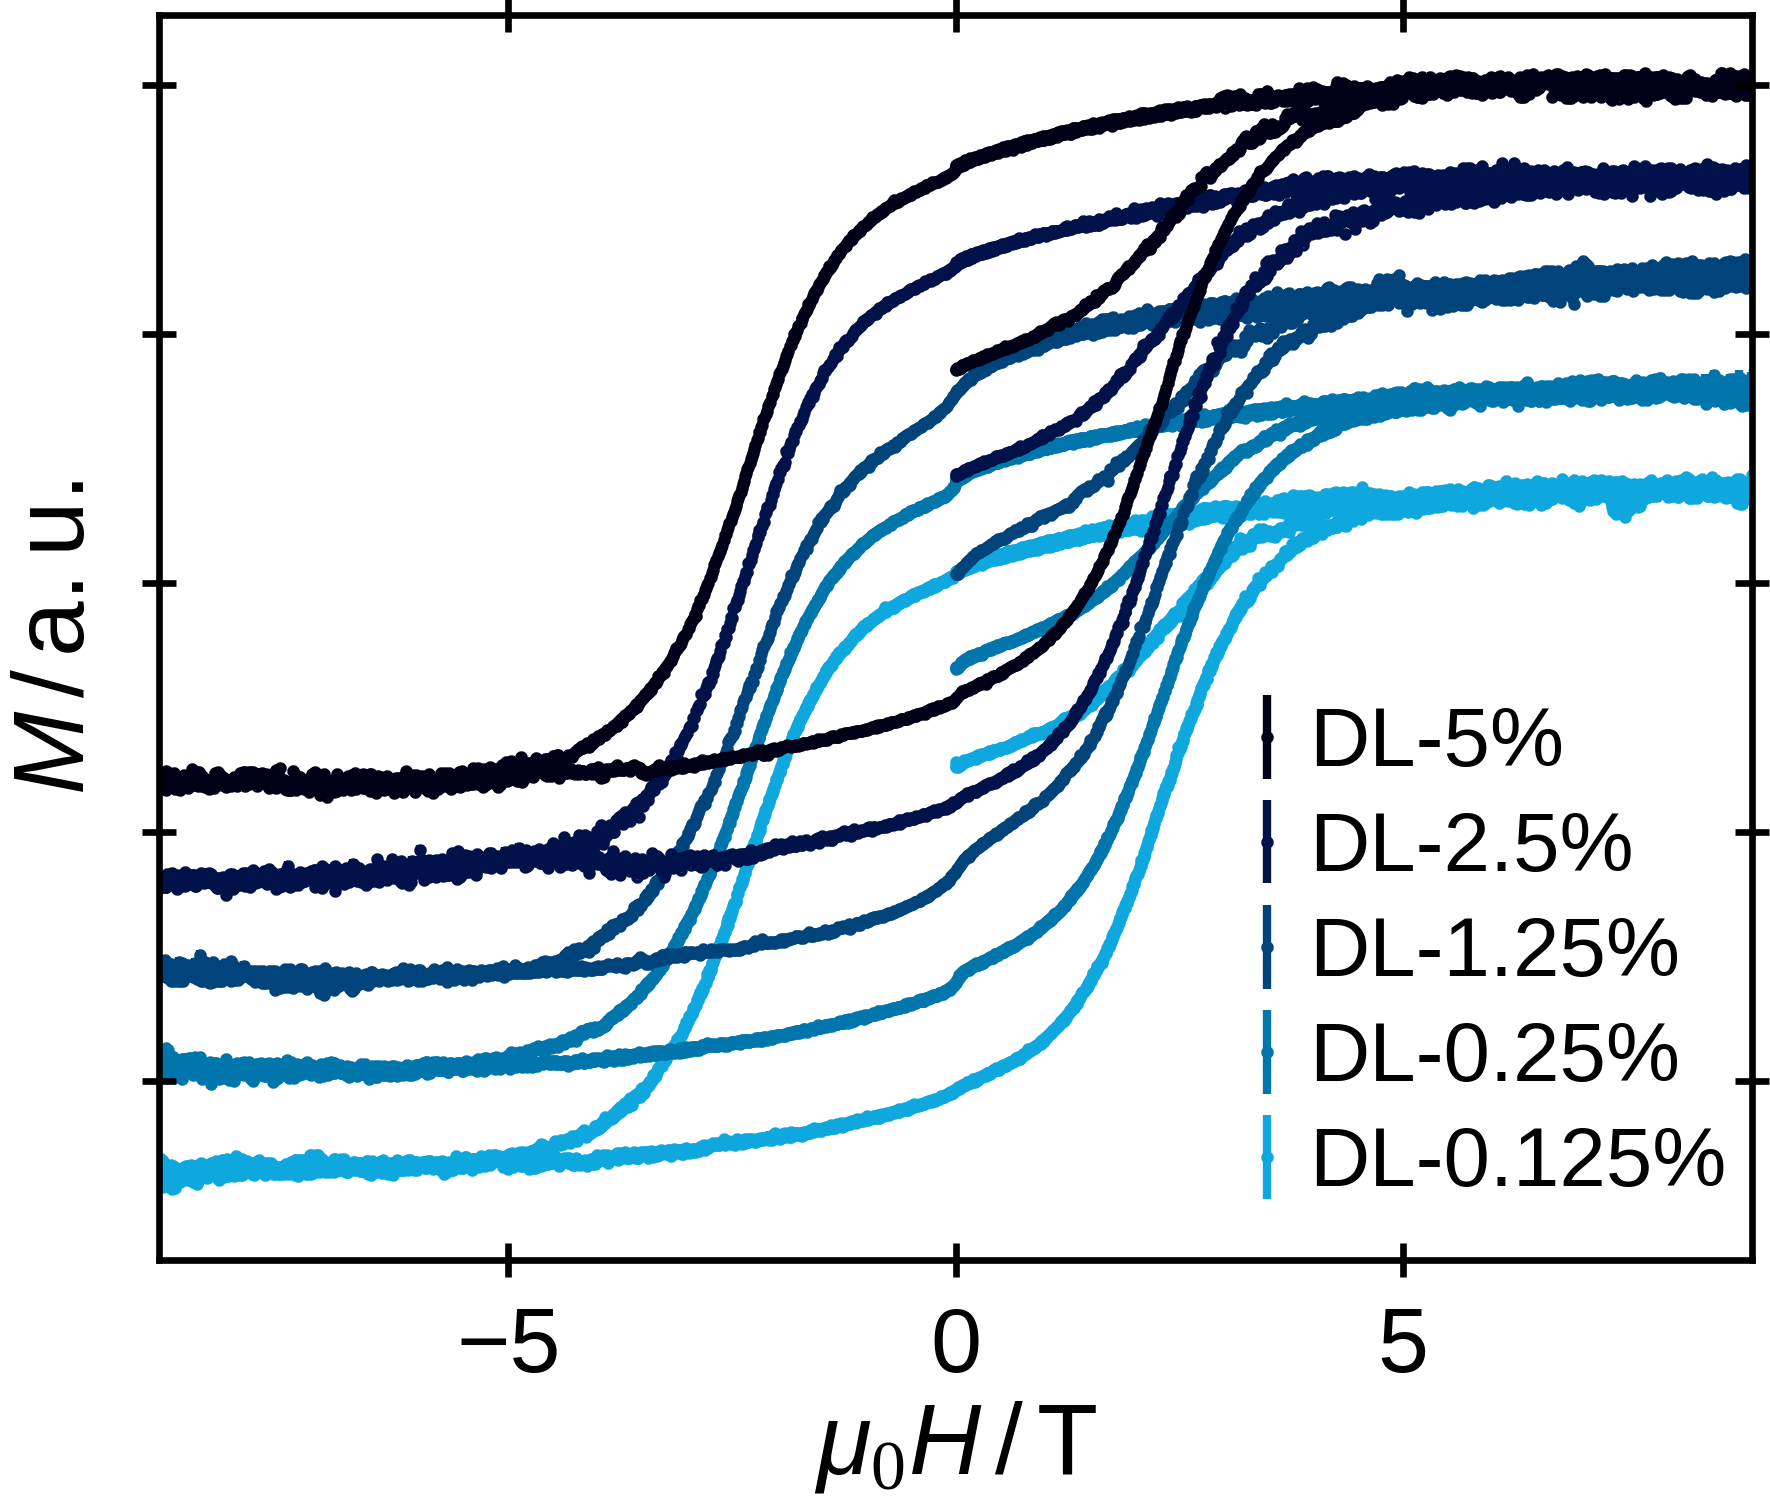
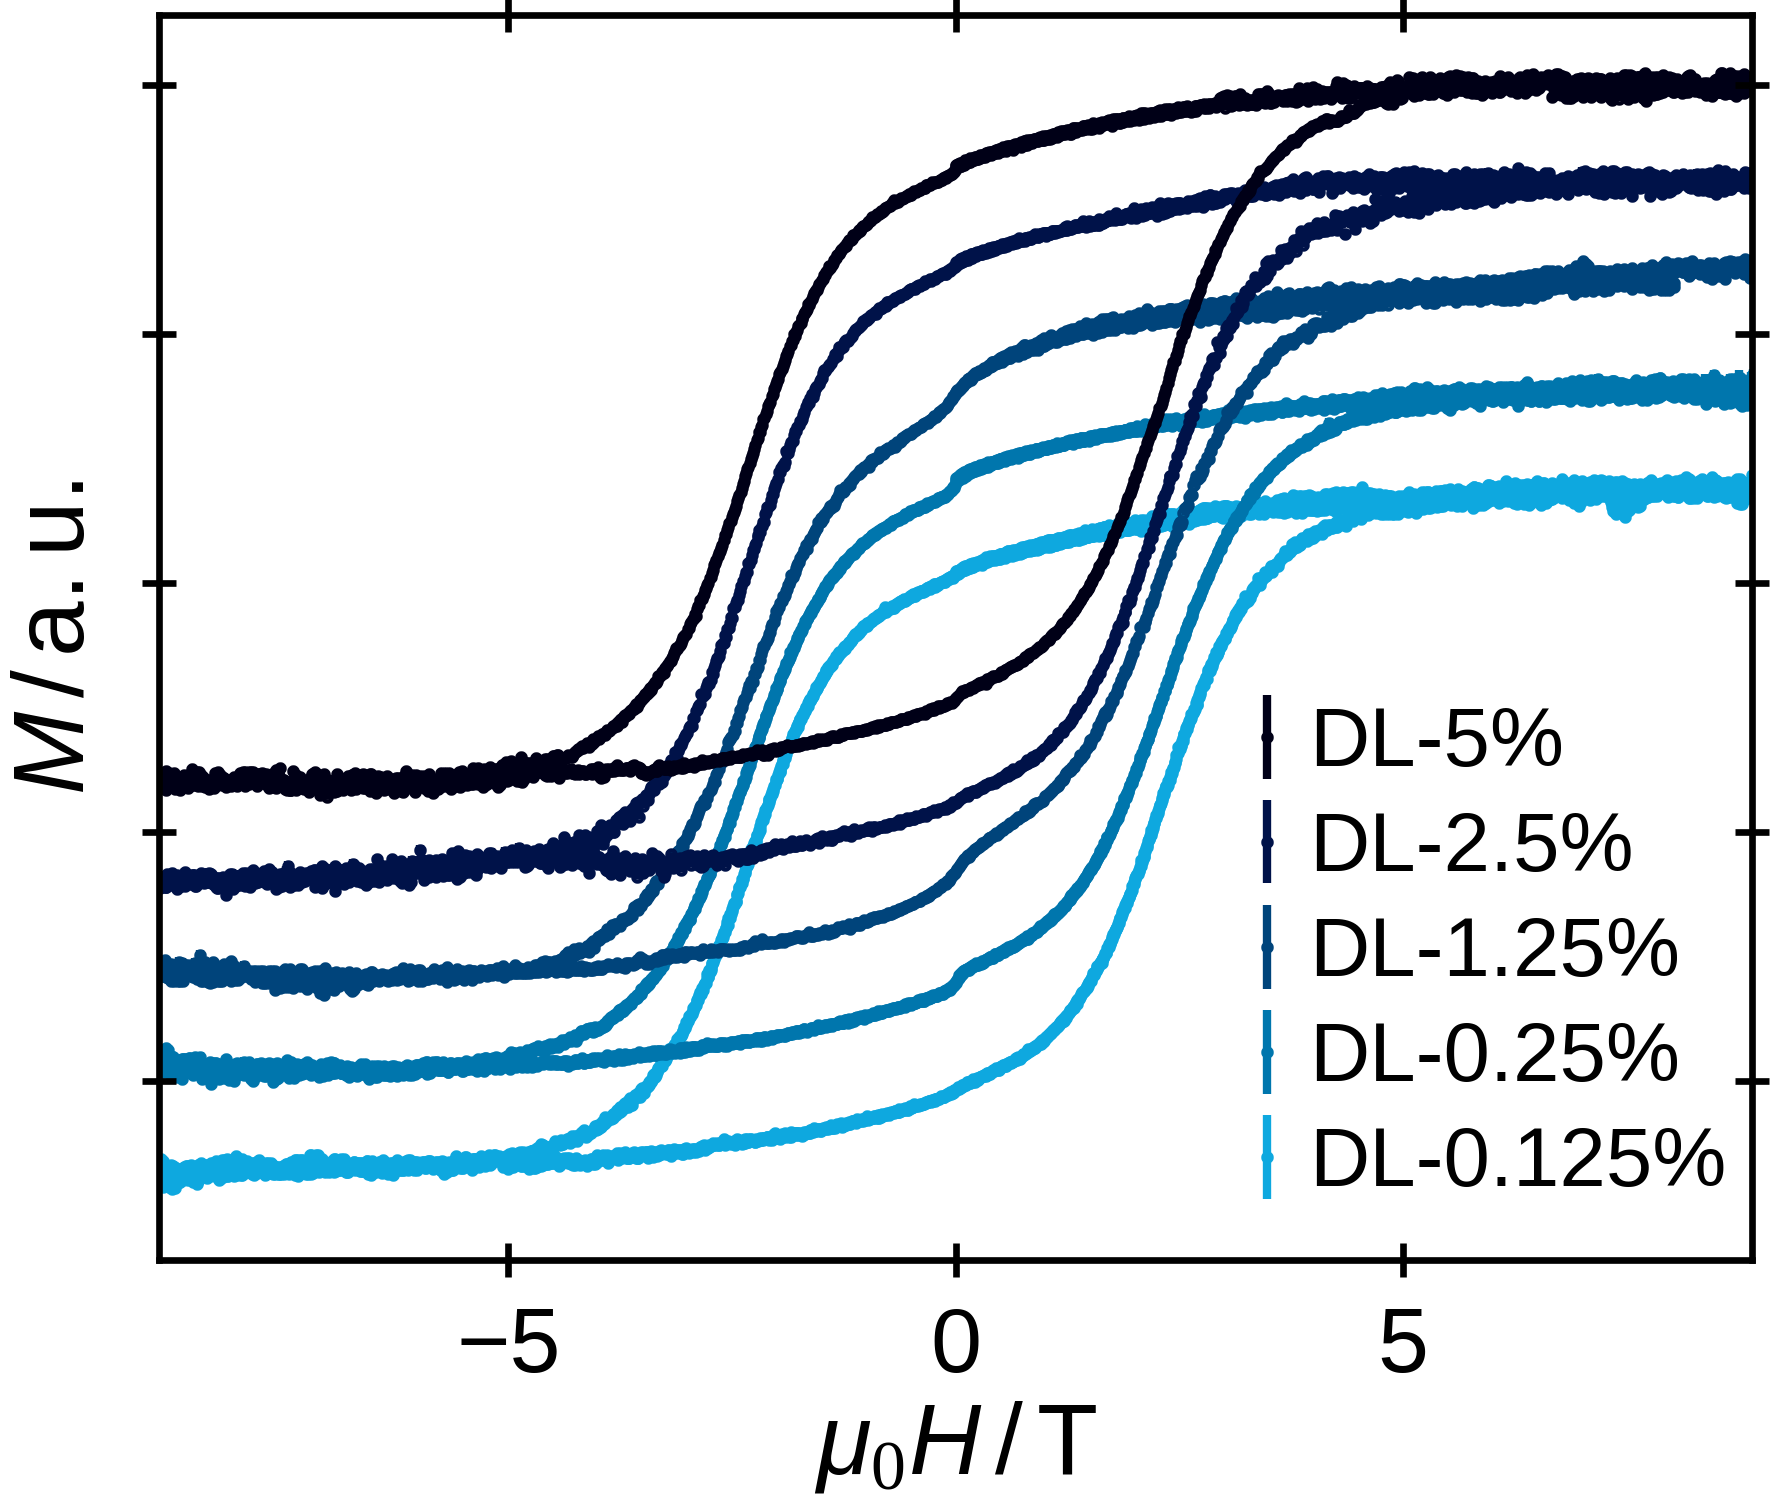
[Correction] Doublelayer VSM mask virgin curves in shifted plot

diff --git a/chapters/doublelayers/magnetism/vsm/vsm.tex b/chapters/doublelayers/magnetism/vsm/vsm.tex
@@ -68,7 +68,7 @@
       \centering
       \includegraphics{doublelayers_PPMS_10K_allSamples}
       \includegraphics{doublelayers_PPMS_10K_allSamplesShifted}
-      \caption{\label{fig:doubleLayers:10KVSM}Field-dependent magnetization of the double layers measured at $10 \unit{K}$ after cooling in a $10 \unit{mT}$ field (left). Similar to \reffig{fig:doubleLayers:RTVSM} the hysteresis curves are shifted by the same factor for differentiation (right).}
+      \caption{\label{fig:doubleLayers:10KVSM}Field-dependent magnetization of the double layers measured at $10 \unit{K}$ after cooling in a $10 \unit{mT}$ field (left). Similar to \reffig{fig:doubleLayers:RTVSM} the hysteresis curves are shifted by the same factor for differentiation (right). Additionally the virgin curves are masked for clarity.}
     \end{figure}
     Stronger variations can be seen in the hysteresis at $10 \unit{K}$.
     Similar to the monolayer sample in \refsec{sec:monolayers:magneticStructure:vsm}, a small jump in the magnetization is visible around $\pm 100 \unit{mT}$ in all samples.

diff --git a/data/doubleLayers/compareVSM10K/THESIS_VSM10KShifts.py b/data/doubleLayers/compareVSM10K/THESIS_VSM10KShifts.py
@@ -19,8 +19,11 @@ savefile = f'{chapter}_PPMS_10K_{sample_name}'
 
 def load_file(datafile, sf=1, chi=0):
   data = XyeData()
-  data.loadFromFile(datafile)
+  data.loadFromFile(datafile, sort=False)
   B1, M1, sM1 = data.getData()
+  B1 = B1[800:]
+  M1 = M1[800:]
+  sM1 = sM1[800:]
   return B1, (M1-chi*B1)*sf, sM1*sf
 
 B_1, M_1, sM_1 = load_file('../dl_0-125/ppms/rescale/DL_0-125_10K_rescaled.xye')
